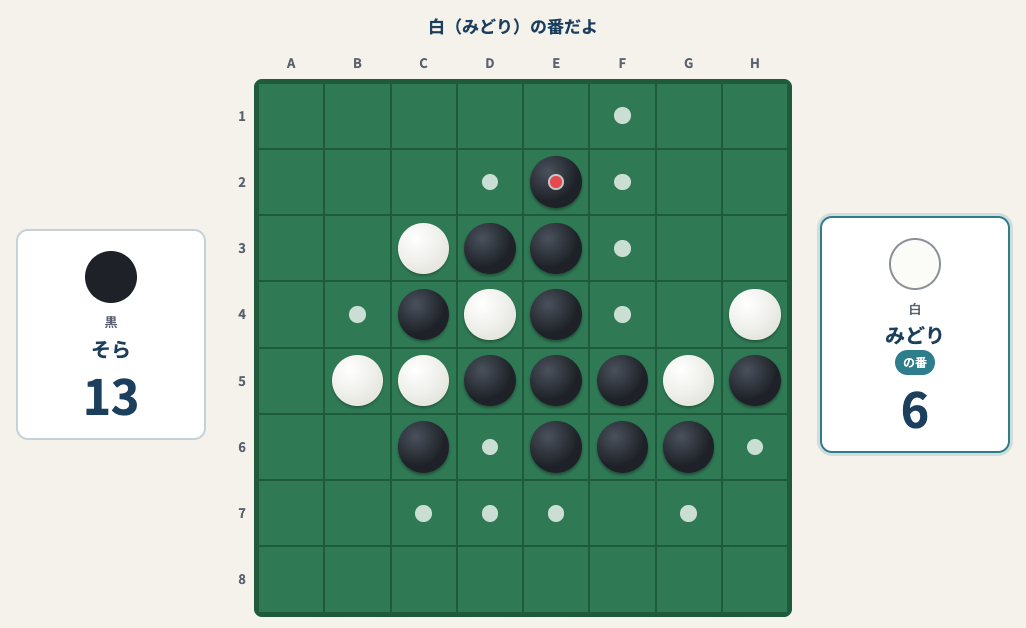
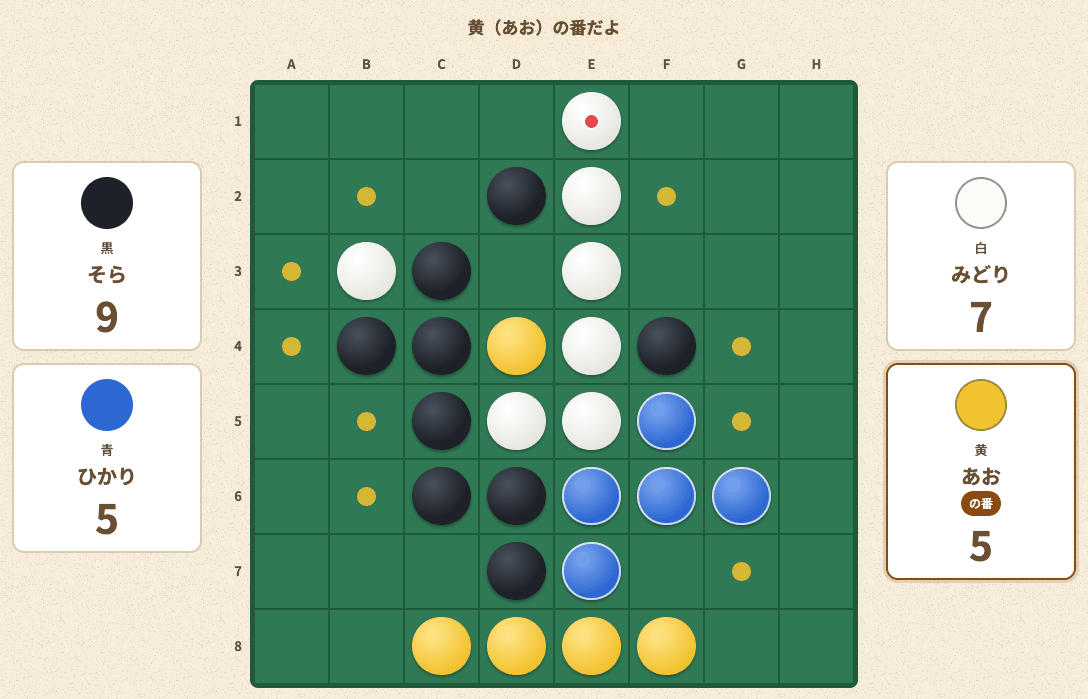
chore(reversi): ツール一覧のサムネイルを4人（4色）の盤に撮り直す
3〜4人の追加（#397）に合わせ、黒・白・黄・青の4人の対局の中盤にした。
通信しない1台の画面で撮影し、本番には接続していない。大きさは 1088×699
（カードの width/height と alt も合わせた）。撮り方は tests/reversi/shot.cjs、
記録は docs/development/thumbnails.md。

diff --git a/apps/index.html b/apps/index.html
@@ -3371,7 +3371,7 @@
           <div class="app-card__icon">
             <span class="material-symbols-rounded" aria-hidden="true">contrast</span>
             <img class="app-card__illust" src="assets/illustrations/reversi.webp" alt="" width="400" height="400" loading="lazy" decoding="async" />
-            <img class="app-card__thumbnail" src="assets/thumbnails/reversi.png" alt="黒と白の石が並ぶ8×8の盤と、置ける場所の印・対戦する2人の石の数" width="1026" height="628" loading="lazy" decoding="async" />
+            <img class="app-card__thumbnail" src="assets/thumbnails/reversi.png" alt="黒・白・黄・青の4色の石が並ぶ8×8の盤と、置ける場所の印・対戦する4人の石の数" width="1088" height="699" loading="lazy" decoding="async" />
           </div>
           <div class="app-card__body">
             <div class="app-card__name">リバーシ</div>
